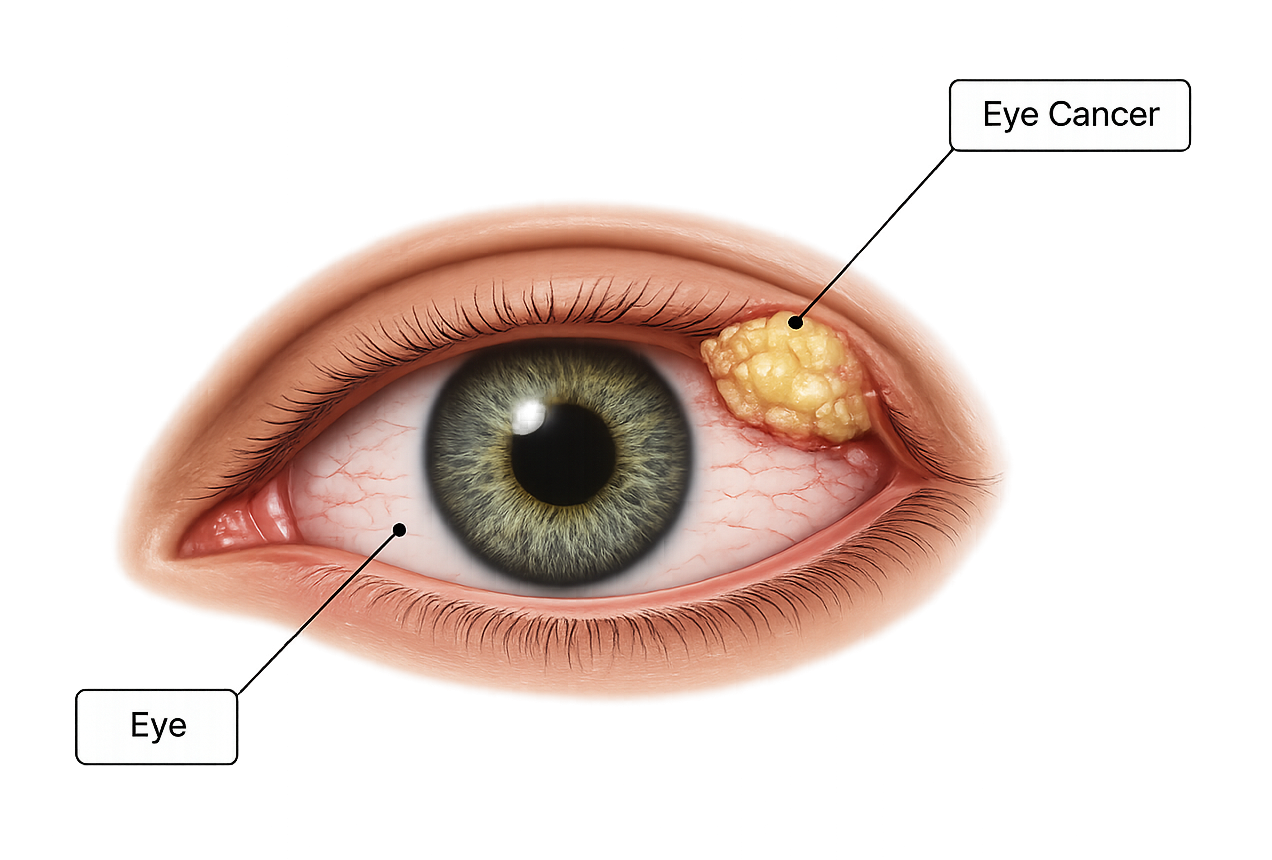
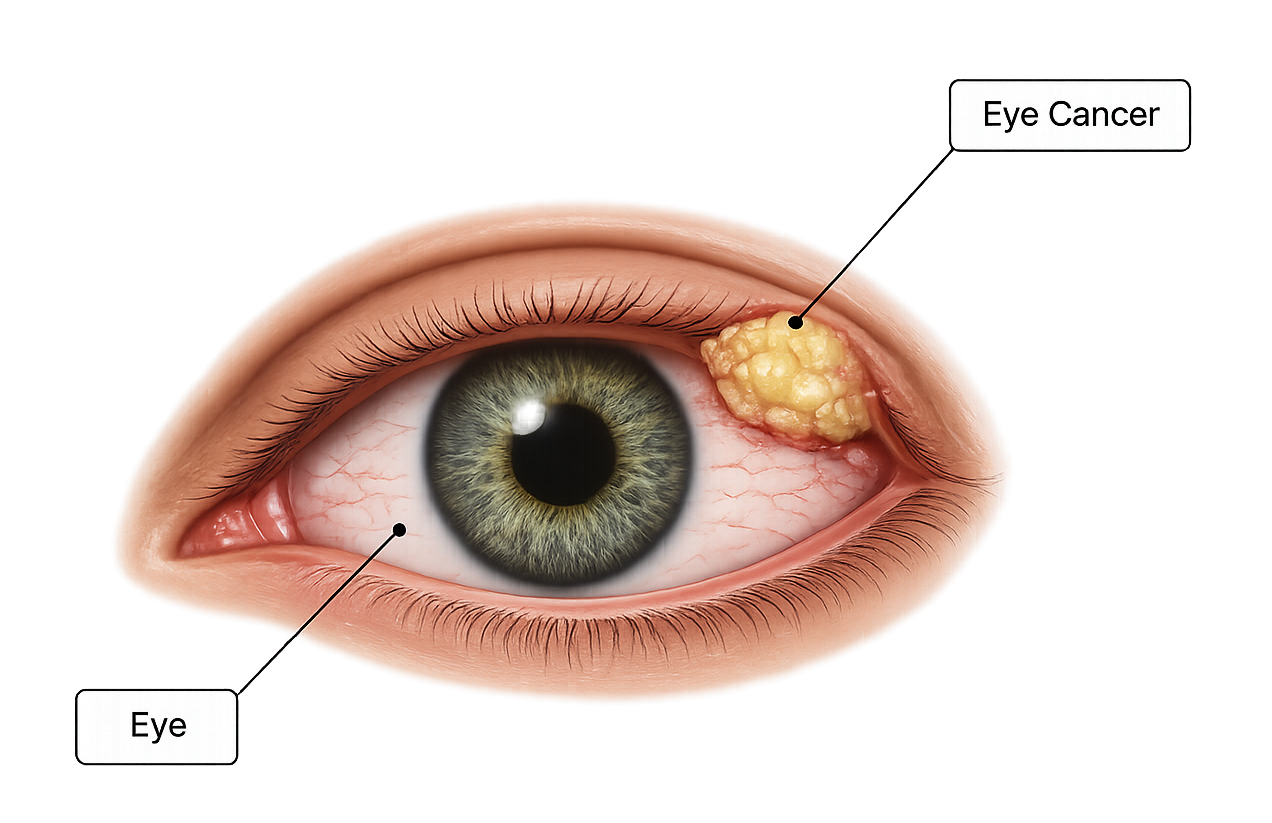
types

diff --git a/src/cancersData.js b/src/cancersData.js
@@ -2430,13 +2430,8 @@ typesStages: {
       {
         title: "Tiredness or Weakness",
         text: "Feeling tired or weak may happen with colon cancer.",
-        img: "/symptoms/colon-tired.png"
+        img: "/symptoms/colon-week.png"
       },
-      {
-        title: "Unexplained Weight Loss",
-        text: "Losing weight without trying may be a symptom that needs medical attention.",
-        img: "/symptoms/colon-weight.png"
-      }
     ]
   },
 
@@ -2470,7 +2465,7 @@ typesStages: {
       {
         title: "Tissue Testing",
         text: "During colonoscopy, a small tissue sample may be removed and examined under a microscope.",
-        img: "/diagnosis/colon-biopsy.png"
+        img: "/diagnosis/colon-bio.png"
       }
     ]
   },
@@ -2539,17 +2534,17 @@ typesStages: {
   riskFactorsData: {
     uncontrollable: [
       {
-        icon: "",
+        icon: "/icons/none.png",
         title: "Risk Factors Not Listed",
-        text: "This page does not provide a dedicated section describing specific risk factors for duodenal cancer."
+        text:"no info"
       }
     ],
 
     lifestyle: [
       {
-        icon: "",
+        icon: "/icons/none.png",
         title: "Information Not Available",
-        text: "Lifestyle-related risk factors are not specifically discussed on this page."
+        text: "no info"
       }
     ]
   },
@@ -2656,22 +2651,22 @@ typesStages: {
   riskFactorsData: {
     uncontrollable: [
       {
-        icon: "/icons/age.svg",
+        icon: "/icons/age.png",
         title: "Age",
         text: "Endometrial cancer is more common in people who have gone through menopause."
       },
       {
-        icon: "/icons/reproductive.svg",
+        icon: "/icons/reproductive.png",
         title: "Early or Late Menstruation History",
         text: "Starting periods before age 12 or going through menopause later may increase risk because of longer estrogen exposure."
       },
       {
-        icon: "/icons/genetics.svg",
+        icon: "/icons/genetics.png",
         title: "Lynch Syndrome",
         text: "Lynch syndrome is an inherited condition that increases the risk of several cancers, including endometrial cancer."
       },
       {
-        icon: "/icons/density.svg",
+        icon: "/icons/density.png",
         title: "Never Being Pregnant",
         text: "People who have never been pregnant may have a higher risk of endometrial cancer."
       }
@@ -2679,17 +2674,17 @@ typesStages: {
 
     lifestyle: [
       {
-        icon: "/icons/weight.svg",
+        icon: "/icons/overweight.png",
         title: "Obesity",
         text: "Obesity can increase estrogen levels and raise the risk of endometrial cancer."
       },
       {
-        icon: "/icons/reproductive.svg",
+        icon: "/icons/reproductive.png",
         title: "Hormone Therapy",
         text: "Taking estrogen without progesterone after menopause may increase risk."
       },
       {
-        icon: "/icons/diet.svg",
+        icon: "/icons/healthy.png",
         title: "High-Fat Diet",
         text: "A high-fat diet may increase the risk of endometrial cancer."
       }
@@ -2741,12 +2736,12 @@ typesStages: {
       {
         title: "Endometrial Biopsy",
         text: "A small sample of tissue from the uterine lining may be removed and checked for cancer cells.",
-        img: "/diagnosis/endometrial-biopsy.png"
+        img: "/diagnosis/endo-bio.png"
       },
       {
         title: "Hysteroscopy",
         text: "A thin lighted tube may be used to look inside the uterus.",
-        img: "/diagnosis/endometrial-hysteroscopy.png"
+        img: "/diagnosis/endo-hyst.png"
       },
       {
         title: "Dilation and Curettage",
@@ -2761,22 +2756,17 @@ typesStages: {
       {
         title: "Surgery",
         text: "Surgery is the most common treatment for endometrial cancer.",
-        img: "/treatment/endometrial-surgery.png"
-      },
-      {
-        title: "Hysterectomy",
-        text: "A hysterectomy removes the uterus and is commonly used to treat endometrial cancer.",
-        img: "/treatment/endometrial-hysterectomy.png"
+        img: "/treatment/endo-sur.png"
       },
       {
         title: "Radiation Therapy",
         text: "Radiation therapy uses targeted energy to destroy cancer cells.",
-        img: "/treatment/endometrial-radiation.png"
+        img: "/treatment/endo-radiation.png"
       },
       {
         title: "Chemotherapy",
         text: "Chemotherapy uses medicines to kill cancer cells.",
-        img: "/treatment/endometrial-chemo.png"
+        img: "/treatment/endo-chemo.png"
       },
       {
         title: "Hormone Therapy",
@@ -2786,12 +2776,12 @@ typesStages: {
       {
         title: "Immunotherapy",
         text: "Immunotherapy helps the immune system recognize and attack cancer cells.",
-        img: "/treatment/endometrial-immuno.png"
+        img: "/treatment/endo-immuno.png"
       },
       {
         title: "Targeted Therapy",
         text: "Targeted therapy uses medicines that target specific cancer cell features.",
-        img: "/treatment/endometrial-targeted.png"
+        img: "/treatment/endo-tar.png"
       }
     ],
   }